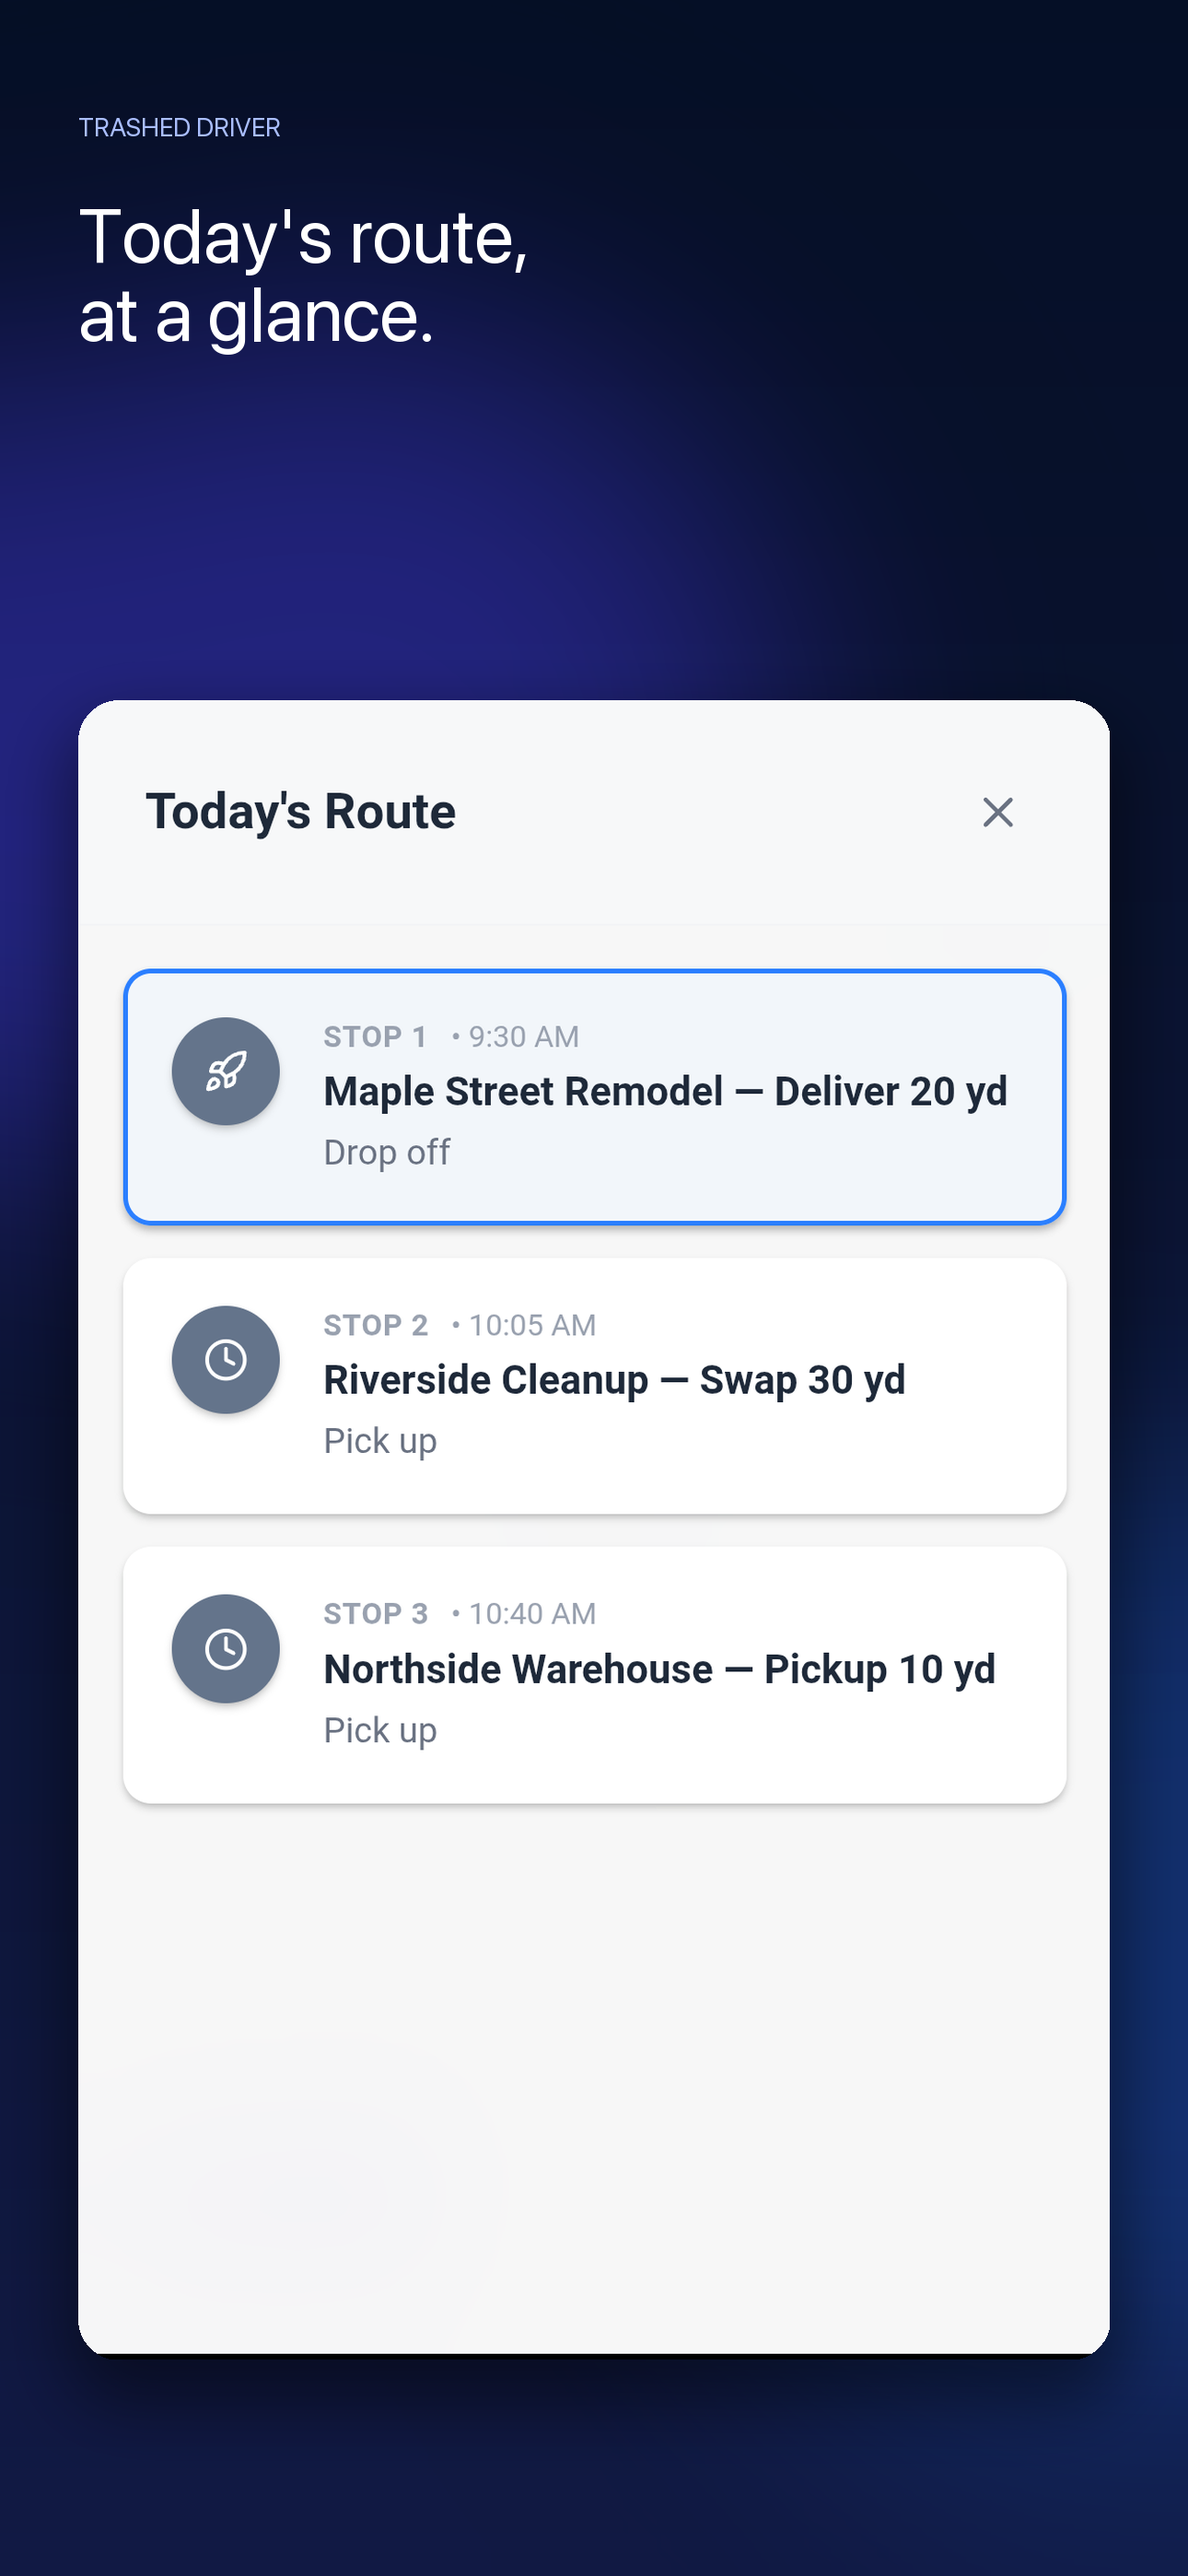
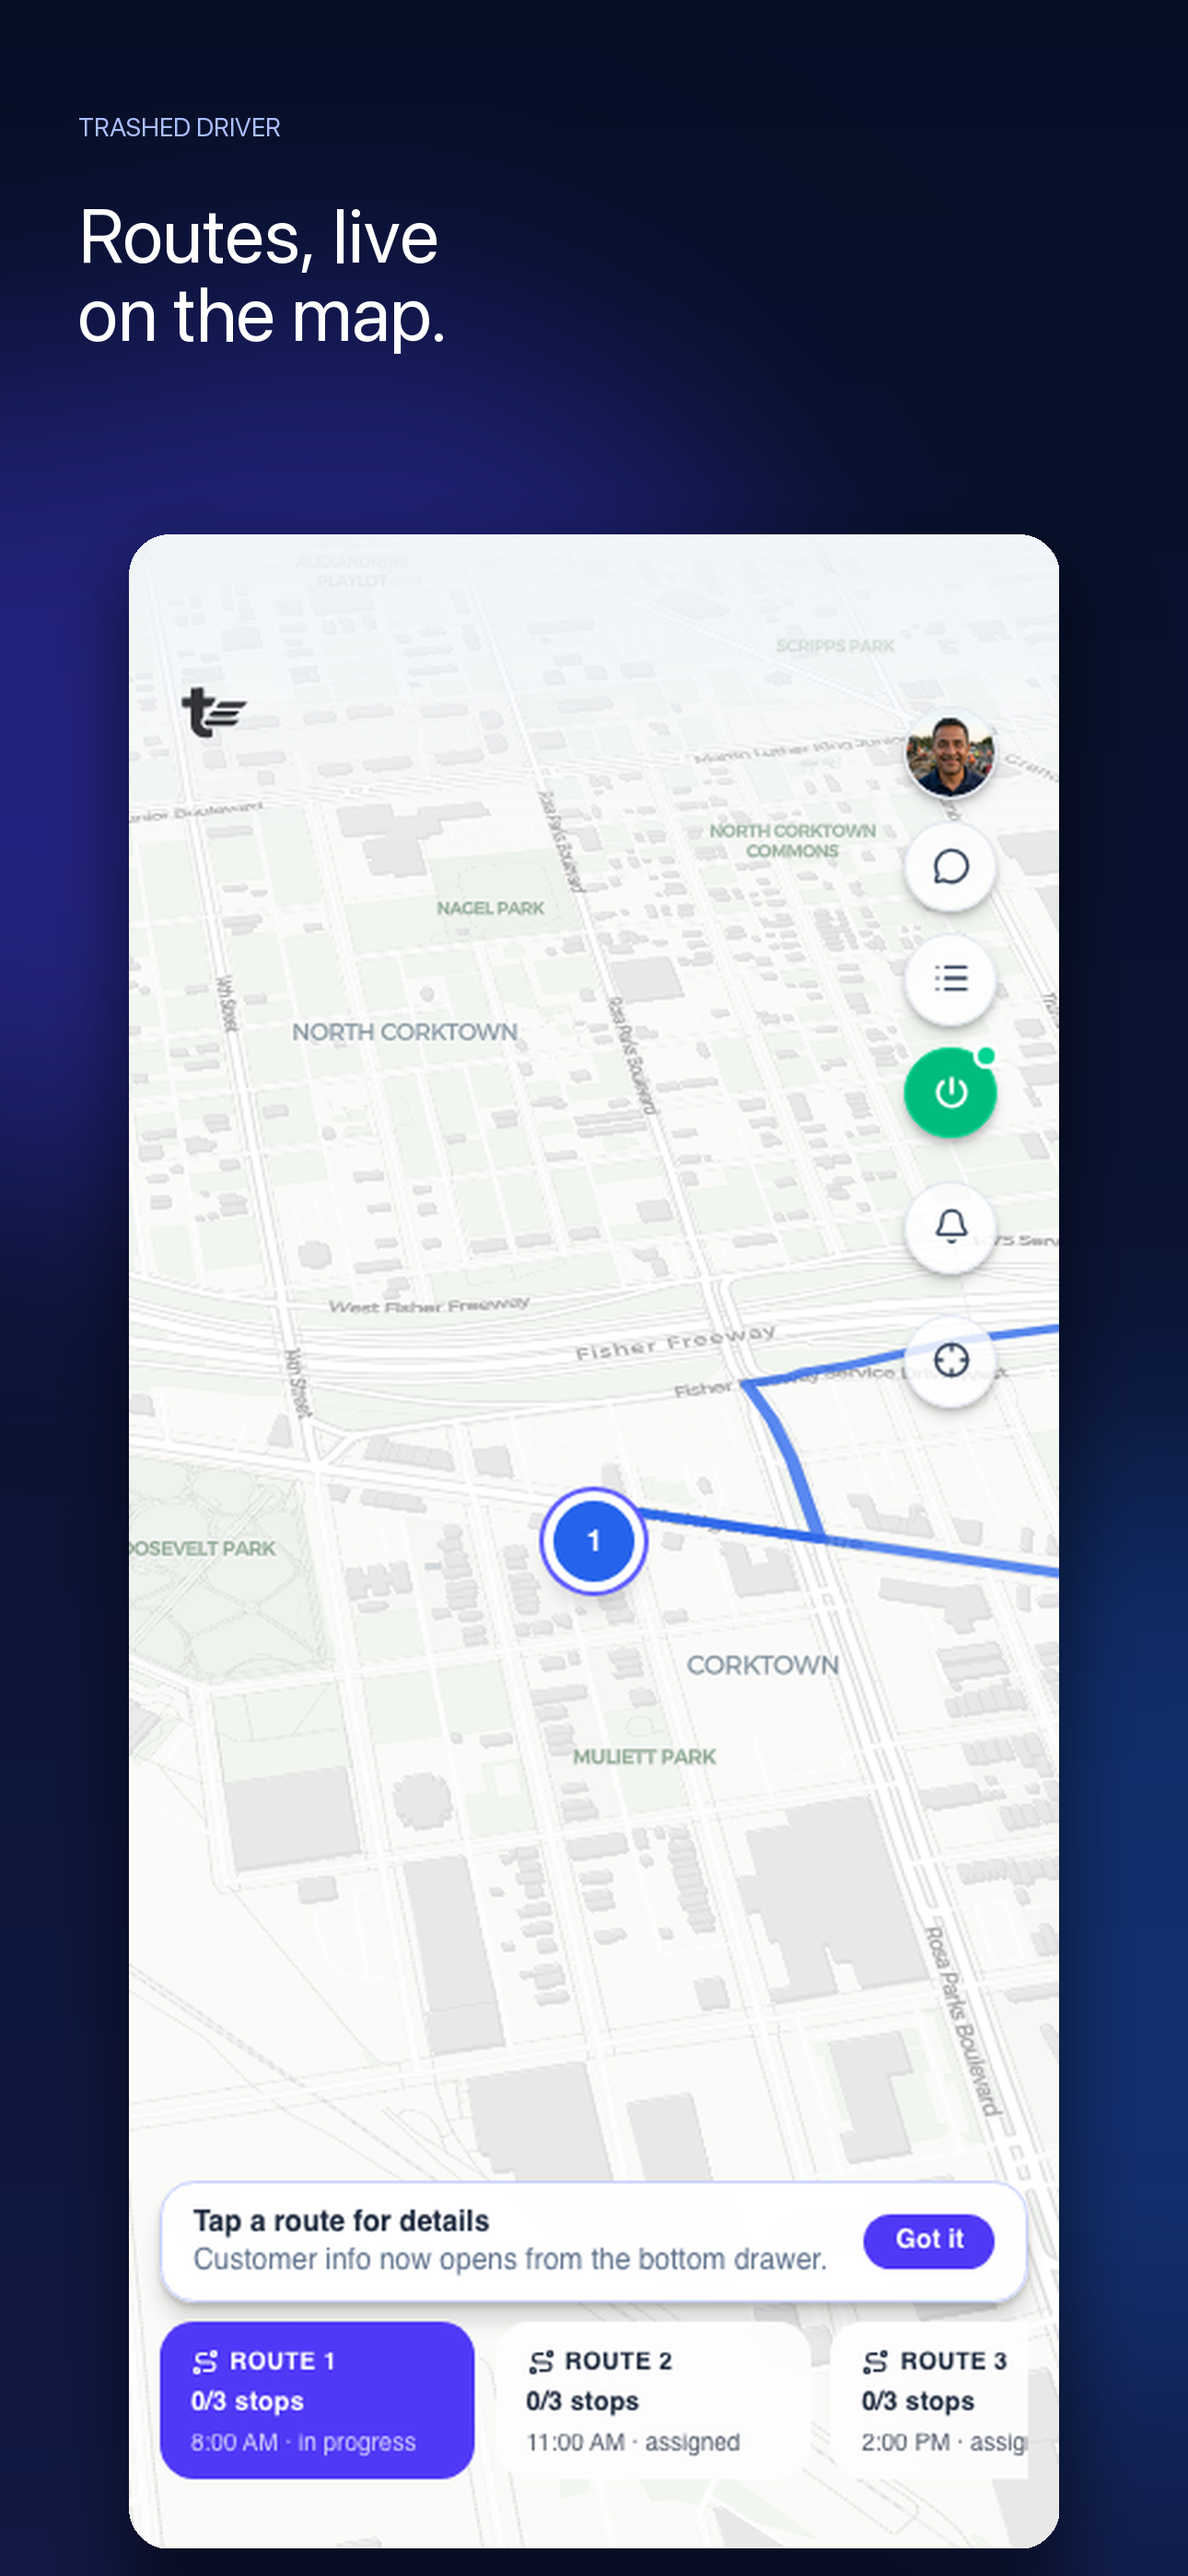
Replace iOS screenshots with real app UI

diff --git a/scripts/generate-ios-app-store-screenshots.py b/scripts/generate-ios-app-store-screenshots.py
@@ -1,5 +1,6 @@
 #!/usr/bin/env python3
 import argparse
+import hashlib
 from pathlib import Path
 
 from PIL import Image, ImageDraw, ImageFilter, ImageFont
@@ -7,12 +8,37 @@ from PIL import Image, ImageDraw, ImageFilter, ImageFont
 
 WIDTH = 1290
 HEIGHT = 2796
-CONTENT_BOTTOM = 1800
 
 SHOTS = (
-    ("01-routes-raw.png", "ios-6.9-01-driver-routes.png", "Today's route,\nat a glance.", 63),
-    ("02-messages-raw.png", "ios-6.9-02-dispatch-messages.png", "Dispatch stays\nin sync.", 370),
-    ("04-photos-raw.png", "ios-6.9-03-route-photos.png", "Proof from\nevery stop.", 63),
+    {
+        "source": "driver-route-map.png",
[1 lines of base64/hex data omitted]
+        "output": "ios-6.9-01-driver-routes.png",
+        "headline": "Routes, live\non the map.",
+        "crop": (0, 0, 390, 844),
+        "capture_width": 1010,
+        "capture_y": 580,
+    },
+    {
+        "source": "driver-dispatch-chat.png",
[1 lines of base64/hex data omitted]
+        "output": "ios-6.9-02-dispatch-messages.png",
+        "headline": "Driver chat keeps\ndispatch in sync.",
+        "crop": (0, 63, 1080, 1800),
+        "capture_width": 1120,
+        "capture_y": 760,
+    },
+    {
+        "source": "driver-route-photos.png",
[1 lines of base64/hex data omitted]
+        "context_source": "completed-routes-metrics.png",
[1 lines of base64/hex data omitted]
+        "output": "ios-6.9-03-route-photos.png",
+        "headline": "Proof after every\ncompleted route.",
+        "crop": (0, 330, 1080, 1750),
+        "capture_width": 1120,
+        "capture_y": 1150,
+    },
 )
 
 
@@ -31,7 +57,7 @@ def font(size: int, bold: bool = False) -> ImageFont.FreeTypeFont:
 
 def background() -> Image.Image:
     image = Image.new("RGB", (WIDTH, HEIGHT))
-    pixels = image.load()
+    draw = ImageDraw.Draw(image)
     for y in range(HEIGHT):
         mix = y / (HEIGHT - 1)
         color = (
@@ -39,8 +65,7 @@ def background() -> Image.Image:
             round(15 + 10 * mix),
             round(38 + 30 * mix),
         )
-        for x in range(WIDTH):
-            pixels[x, y] = color
+        draw.line((0, y, WIDTH, y), fill=color)
 
     glow = Image.new("RGBA", image.size, (0, 0, 0, 0))
     glow_draw = ImageDraw.Draw(glow)
@@ -51,10 +76,17 @@ def background() -> Image.Image:
     return image
 
 
-def rounded_capture(source: Path, content_top: int) -> Image.Image:
+def verify_source(source: Path, expected_sha256: str) -> None:
+    actual = hashlib.sha256(source.read_bytes()).hexdigest()
+    if actual != expected_sha256:
+        raise SystemExit(
+            f"Source screenshot checksum mismatch for {source}: expected {expected_sha256}, got {actual}"
+        )
+
+
+def rounded_capture(source: Path, crop: tuple[int, int, int, int], target_width: int) -> Image.Image:
     with Image.open(source) as opened:
-        capture = opened.convert("RGB").crop((0, content_top, opened.width, CONTENT_BOTTOM))
-    target_width = 1120
+        capture = opened.convert("RGB").crop(crop)
     target_height = round(capture.height * target_width / capture.width)
     capture = capture.resize((target_width, target_height), Image.Resampling.LANCZOS)
 
@@ -65,21 +97,10 @@ def rounded_capture(source: Path, content_top: int) -> Image.Image:
     return result
 
 
-def render(source: Path, destination: Path, headline: str, content_top: int) -> None:
-    canvas = background()
-    draw = ImageDraw.Draw(canvas)
-    draw.text((85, 120), "TRASHED DRIVER", font=font(28, bold=True), fill=(170, 190, 255))
-    draw.multiline_text(
-        (85, 205),
-        headline,
-        font=font(82, bold=True),
-        fill=(255, 255, 255),
-        spacing=4,
-    )
-
-    capture = rounded_capture(source, content_top)
+def paste_capture(canvas: Image.Image, capture: Image.Image, y: int) -> None:
     x = (WIDTH - capture.width) // 2
-    y = 760
+    if y + capture.height > HEIGHT - 20:
+        raise SystemExit("Composed screenshot exceeds canvas")
 
     shadow = Image.new("RGBA", canvas.size, (0, 0, 0, 0))
     shadow_draw = ImageDraw.Draw(shadow)
@@ -92,13 +113,49 @@ def render(source: Path, destination: Path, headline: str, content_top: int) -> 
     canvas.paste(shadow, mask=shadow.getchannel("A"))
     canvas.paste(capture, (x, y), capture)
 
+
+def render(source_dir: Path, destination: Path, shot: dict) -> None:
+    source = source_dir / shot["source"]
+    verify_source(source, shot["sha256"])
+
+    canvas = background()
+    draw = ImageDraw.Draw(canvas)
+    draw.text((85, 120), "TRASHED DRIVER", font=font(28, bold=True), fill=(170, 190, 255))
+    draw.multiline_text(
+        (85, 205),
+        shot["headline"],
+        font=font(82, bold=True),
+        fill=(255, 255, 255),
+        spacing=4,
+    )
+
+    context_name = shot.get("context_source")
+    if context_name:
+        context = source_dir / context_name
+        verify_source(context, shot["context_sha256"])
+        context_capture = rounded_capture(context, (260, 50, 900, 305), 1120)
+        paste_capture(canvas, context_capture, 600)
+        draw.text(
+            (85, 1080),
+            "THEN ADD PHOTO PROOF",
+            font=font(27, bold=True),
+            fill=(170, 190, 255),
+        )
+
+    capture = rounded_capture(source, shot["crop"], shot["capture_width"])
+    paste_capture(canvas, capture, shot["capture_y"])
+
     destination.parent.mkdir(parents=True, exist_ok=True)
     canvas.save(destination, format="PNG", optimize=True)
 
 
 def main() -> None:
     parser = argparse.ArgumentParser()
-    parser.add_argument("--source-dir", type=Path, required=True)
+    parser.add_argument(
+        "--source-dir",
+        type=Path,
+        default=Path("app-store-assets/sources/ios-6.9"),
+    )
     parser.add_argument(
         "--output-dir",
         type=Path,
@@ -106,11 +163,11 @@ def main() -> None:
     )
     args = parser.parse_args()
 
-    for source_name, output_name, headline, content_top in SHOTS:
-        source = args.source_dir / source_name
+    for shot in SHOTS:
+        source = args.source_dir / shot["source"]
         if not source.exists():
             raise SystemExit(f"Missing source screenshot: {source}")
-        render(source, args.output_dir / output_name, headline, content_top)
+        render(args.source_dir, args.output_dir / shot["output"], shot)
 
 
 if __name__ == "__main__":

diff --git a/app-store-assets/README.md b/app-store-assets/README.md
@@ -123,6 +123,23 @@ The current `play-phone-*` set is built from authenticated 1080×1920 Pixel 2 ca
 
 All four files are 1080×1920 RGB PNGs with no alpha channel. Source captures are intentionally kept under the ignored `build/play-review-capture/` directory rather than committed.
 
+### Apple App Store 6.9-inch screenshots
+
+The three `screenshots/ios-6.9/` files are deterministic 1290×2796 RGB PNGs generated by:
+
+```sh
+python3 scripts/generate-ios-app-store-screenshots.py
+```
+
+The generator verifies the committed source captures before rendering. It crops only platform chrome or unused canvas, scales the captures, and places them on the store-art background; interface pixels are not redrawn or altered.
+
[4 lines of base64/hex data omitted]
+
+The photo screenshot uses two visibly separate real UI captures: end-of-day saved route telemetry establishes the post-route context, followed by the real route-photo upload dialog. This avoids claiming that the blurred state behind the photo dialog proves route completion.
+
 Legacy local browser captures:
 
 - `screenshots/01-driver-home.png`
